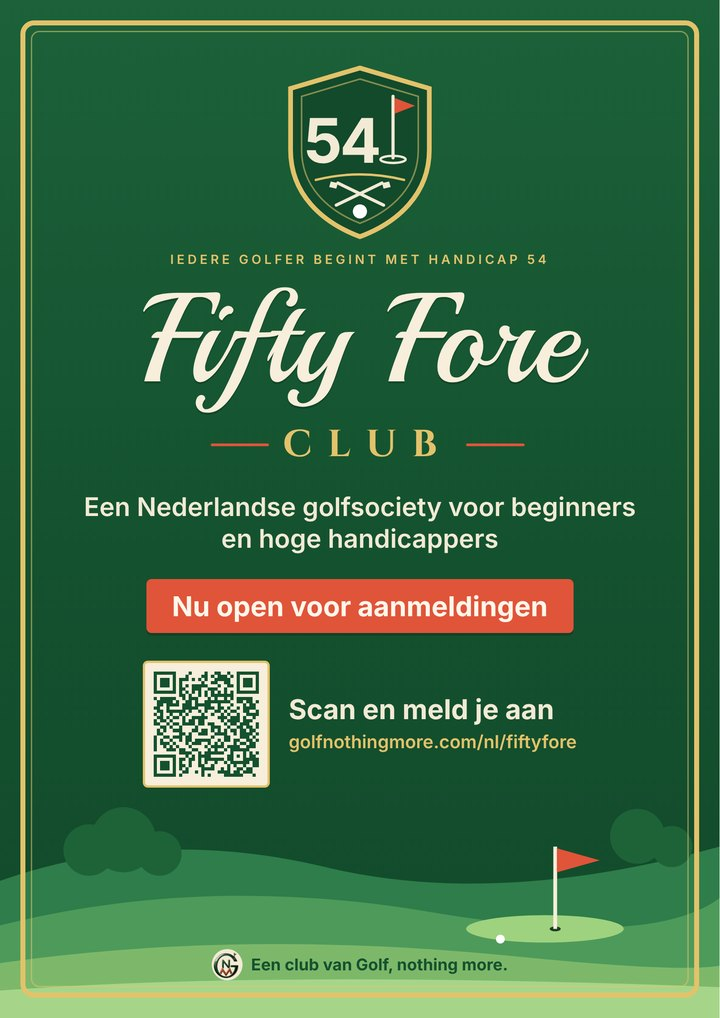
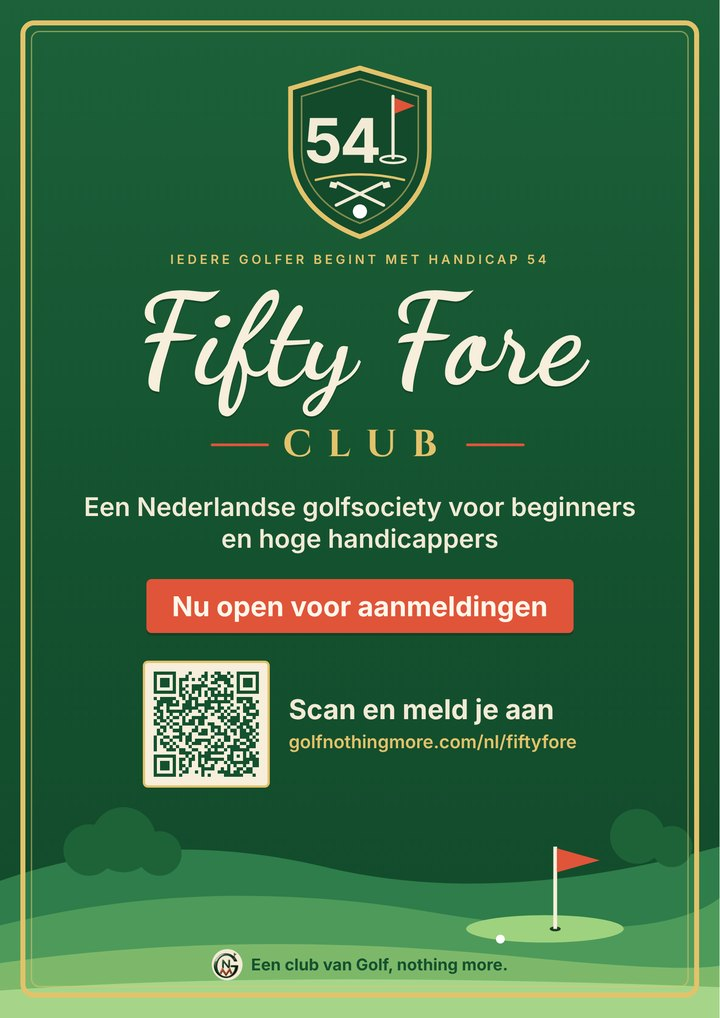
Fifty Fore Club: terug naar Dancing Script op site en bord
Claude-Session: https://claude.ai/code/session_01X7EAAhpjUsE3ZqxN1iSmg9

Changed region(s): [[0.1833, 0.2741, 0.4889, 0.4263], [0.5194, 0.2741, 0.825, 0.3959]]

diff --git a/nl/fiftyfore/index.html b/nl/fiftyfore/index.html
@@ -19,7 +19,7 @@
 <link rel="icon" href="/favicon-512.png" sizes="512x512" type="image/png">
 <link rel="apple-touch-icon" href="/apple-touch-icon.png">
 <title>Fifty Fore Club · Golf, nothing more</title>
-<link rel="stylesheet" href="https://fonts.googleapis.com/css2?family=Cinzel:wght@700&family=Playball&display=swap">
+<link rel="stylesheet" href="https://fonts.googleapis.com/css2?family=Cinzel:wght@700&family=Dancing+Script:wght@700&display=swap">
 <style>
 .ff-hero{display:grid;gap:1.3rem}
 .ff-list{margin:0;padding:0;list-style:none;display:grid;gap:.9rem}
@@ -353,7 +353,7 @@ background:linear-gradient(180deg,#1C6139 0%,#14512F 40%,#124A2B 100%);color:var
 .ff-herotext{display:flex;flex-direction:column;align-items:flex-start;gap:1.2rem}
 .ff-bord img{display:block;width:100%;height:auto;border-radius:.6rem;box-shadow:0 1.2rem 2.5rem rgba(0,0,0,.35);transform:rotate(1.5deg)}
 .ffh{display:flex;flex-direction:column;align-items:flex-start;margin:0}
-.ffh .s{font-family:"Playball",cursive;font-weight:400;font-size:clamp(3.6rem,10vw,5.6rem);line-height:1;color:#F7EEDB;letter-spacing:0;text-shadow:0 .12rem 0 rgba(0,0,0,.18)}
+.ffh .s{font-family:"Dancing Script",cursive;font-weight:700;font-size:clamp(3.6rem,10vw,5.6rem);line-height:1;color:#F7EEDB;letter-spacing:0;text-shadow:0 .12rem 0 rgba(0,0,0,.18)}
 .ffh .c{font-family:"Cinzel",serif;font-weight:700;color:var(--gold);font-size:clamp(1.2rem,3vw,1.6rem);letter-spacing:.45em;margin-top:.5rem;display:flex;align-items:center;gap:.8rem}
 .ffh .c::before,.ffh .c::after{content:"";width:2.2rem;height:3px;background:var(--red);border-radius:2px}
 .ffx .btn-mail{background:var(--red);color:#FFF6EA;border-radius:.35rem;box-shadow:0 .2rem 0 rgba(0,0,0,.2)}
